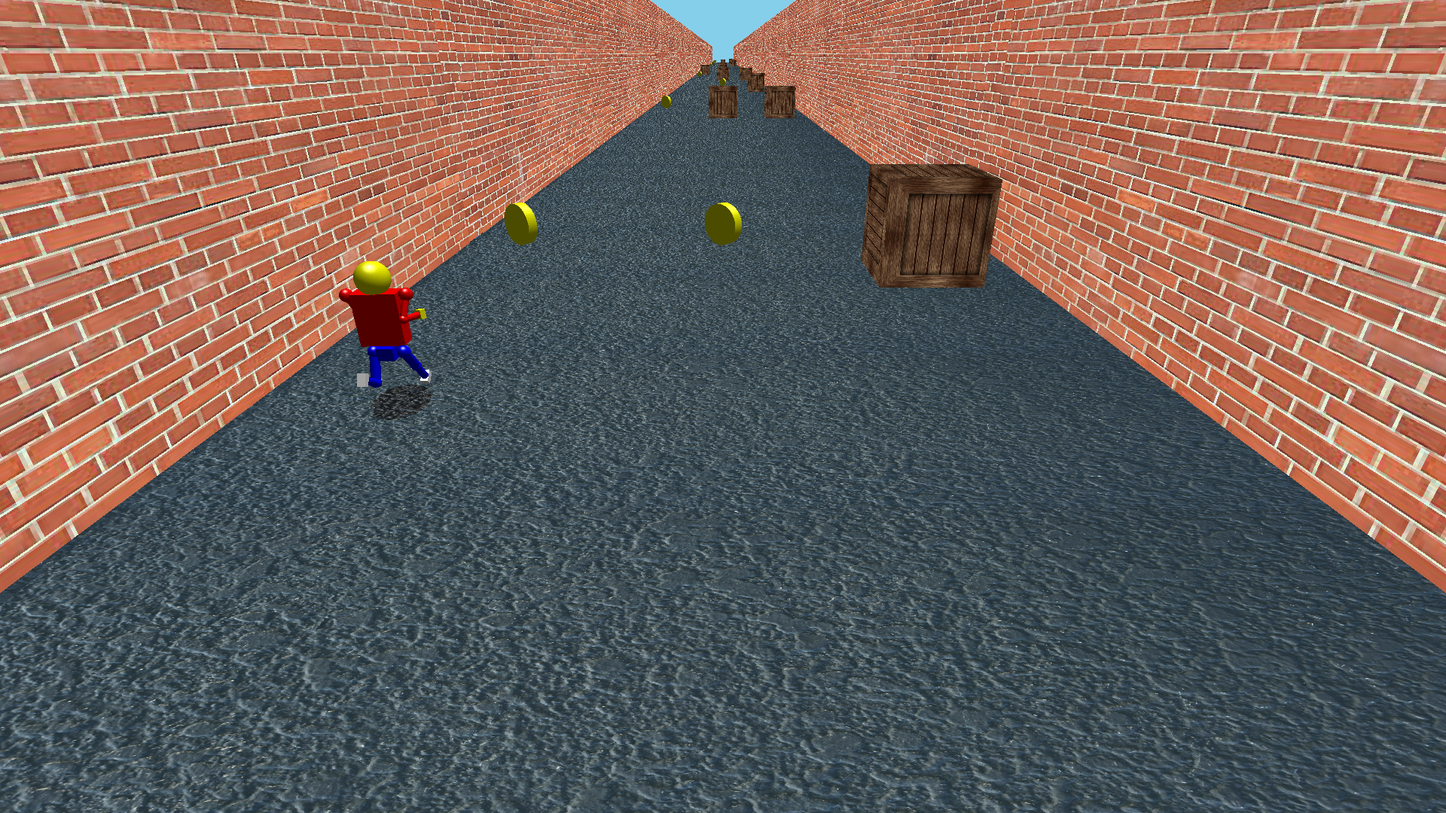
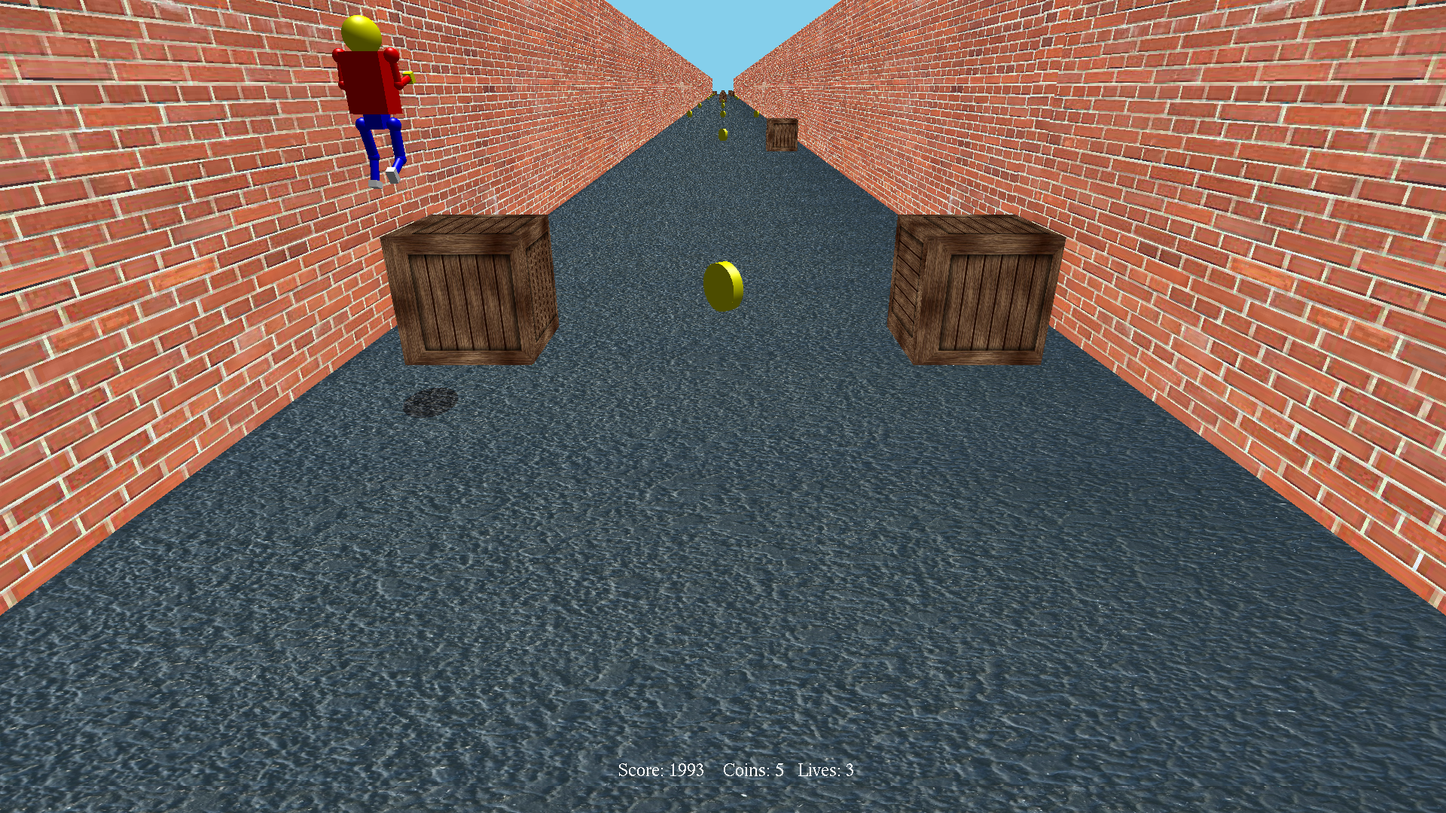
Dodat ispis teksta i zavrsen projekat

diff --git a/src/movement.c b/src/movement.c
@@ -51,8 +51,8 @@ void update_movement(){
           movement+=0.1*speed;
           runner.xpos += 0.1*speed;
           if(movement>0){
-            movement=0;
             runner.xpos -= movement;
+            movement=0;
           }
         }
         else{
@@ -65,8 +65,8 @@ void update_movement(){
           movement+=0.1*speed;
           runner.xpos+=0.1*speed;
           if(movement>10){
-            movement=10;
             runner.xpos-=(movement-10);
+            movement=10;
           }
         }
         else{
@@ -81,8 +81,8 @@ void update_movement(){
           movement-=0.1*speed;
           runner.xpos-=0.1*speed;
           if(movement<-10){
-            movement=-10;
             runner.xpos+=-(movement+10);
+            movement=-10;
           }
         }
         else{
@@ -95,8 +95,8 @@ void update_movement(){
           movement-=0.1*speed;
           runner.xpos-=0.1*speed;
           if(movement<0){
-            movement=0;
             runner.xpos+=-movement;
+            movement=0;
           }
         }
         else{
@@ -295,13 +295,13 @@ void check_collisions(){
         if(obstacles[i].ypos != -1){
             if(abs(runner.xpos-obstacles[i].xpos)<runner.x/2 + obstacles[i].x/2){
                 if(abs(runner.ypos-obstacles[i].ypos)<runner.y/2+obstacles[i].y/2){
-                    if(abs(runner.zpos-obstacles[i].zpos)<runner.z/2+obstacles[i].z/2){
-                        //invulnerable=1;
+                    //Ako u sledecem frejmu trkac bude iza prednje strane prepreke a trenutno je ispred, obradjuje se sudar.
+                    if(runner.zpos > (obstacles[i].zpos+obstacles[i].z/2) && (runner.zpos < obstacles[i].zpos+obstacles[i].z/2+param)){
                         num_lives-=1;
                         obstacles[i].ypos=-1;
                         obstacles[i].zpos= -(BR-1)*size_floor+size_floor/3;
                         param/=2;
-                        speed/=3/2;
+                        speed/=1.5;
                         shake = 5;
                         return;
                     } //cetvrti if
@@ -316,7 +316,8 @@ void check_collisions(){
         if(coins[i].ypos != -1){
             if(abs(runner.xpos-coins[i].xpos)<runner.x/2 + coins[i].r/2){
                 if(abs(runner.ypos-coins[i].ypos)<runner.y/2+coins[i].r/2){
-                    if(abs(runner.zpos-coins[i].zpos)<runner.z/2+coins[i].r/2){
+                    //Ako u sledecem frejmu trkac bude iza novcica a trenutno je ispred, kupi ga.
+                    if(runner.zpos > coins[i].zpos && (runner.zpos < coins[i].zpos+param)){
                         num_coins+=1;
                         coins[i].ypos=-1;
                         coins[i].zpos= -(BR-1)*size_floor+size_floor/3;

diff --git a/src/main.c b/src/main.c
@@ -18,7 +18,7 @@ int main(int argc, char** argv){
     glutInitDisplayMode(GLUT_RGB | GLUT_DEPTH | GLUT_DOUBLE);
 
     //Kreira se prozor.
-    glutInitWindowSize(500, 500);
+    glutInitWindowSize(600, 600);
     glutInitWindowPosition(100,100);
     glutCreateWindow(argv[0]);
 
@@ -148,11 +148,14 @@ static void on_timer(int id){
    coin_rotation+=1.5;
 
    //U zavisnosti od parametra animacije se ubrzava animacija.
-   if((int)animation_parameter%300 == 0 && animation_parameter<(int)animation_parameter+0.2 && param < 16){
+   if((int)animation_parameter%400 == 0 && animation_parameter<(int)animation_parameter+0.2 && param < 12){
          param*=2;
          speed*=1.5;
     }
 
+    //Provera sudara. (I pre i posle pomeranja novcica se vrsi provera sudara zato sto moze da se desi da u trenutku
+    //prolaska kroz novcic dodje do ubrzanja animacije i trkac protrci kroz novcic i ne pokupi ga).
+    check_collisions();
 
     //Funkcije koje vrse promenu parametara animacije.
     update_obstacle();
@@ -165,15 +168,19 @@ static void on_timer(int id){
     //Provera sudara.
     check_collisions();
 
+
+    //Dekremetira se parametar drmusanja
     if(shake!=0){
         shake-=1;
     }
 
+    //Ako je skupljeno 20 novica igrac dobija 1 zivot
     if(num_coins==20){
         num_coins=0;
         num_lives+=1;
     }
 
+    //Ako igrac padne na 0 zivota gubi igru
     if(num_lives==0){
         game_over=1;
         animation_ongoing=0;
@@ -336,7 +343,7 @@ void initialize(){
 
   //Inicijalizuje se pozicija trkaca i dimenzije kvadra koji ga obuhvata.
   runner.xpos = 0;
-  runner.ypos = 2.35;
+  runner.ypos = 2.3;
   runner.zpos = 0;
 
   runner.x = 2.35;
@@ -390,7 +397,7 @@ static void on_display(void){
     //draw_cube(runner.xpos,runner.ypos,runner.zpos,runner.x,runner.y,runner.z);
 
     //Crtanje robota.
-    draw_robo();
+    draw_runner();
 
     //Crtanje puta.
     draw_road();
@@ -400,6 +407,9 @@ static void on_display(void){
 
     //Crtanje novcica
     draw_coins();
+
+    //Ispis teksta.
+    display_text();
 
     glutSwapBuffers();
 }

diff --git a/src/drawing.c b/src/drawing.c
@@ -14,7 +14,7 @@ void draw_cube(float xpos, float ypos, float zpos, float a, float b, float c){
 }
 
 //Funkcija koja crta trkaca.
-void draw_robo(void){
+void draw_runner(void){
   GLUquadricObj *quad;
   quad = gluNewQuadric();
   glPushMatrix();
@@ -119,7 +119,7 @@ void draw_robo(void){
     glPushMatrix();
     glColor4f(0,0,1,1);
     glPushMatrix();
-            glTranslatef(0, -1.1, 0);
+            glTranslatef(0, -1, 0);
             glScalef(0.5, 0.4, 0.6);
             glutSolidCube(1);
     glPopMatrix();
@@ -206,7 +206,7 @@ void draw_robo(void){
 }
 
 //Funkcija koja crta prepreke
-void draw_obstacles(){
+void draw_obstacles(void){
     int i;
     for(i=0;i<MAX_OBSTACLES;i++){
         if(obstacles[i].ypos!=-1){
@@ -522,4 +522,21 @@ void draw_coins(void){
 
 
 
+}
+
+
+void display_text(void){
+    glPopMatrix();
+    glDisable(GL_LIGHTING);
+    glColor4f(1,1,1,1);
+    if(game_over){
+        sprintf(text, "GAME OVER    (Press r/R to restart.)\nScore: %d", (int)animation_parameter);
+    }
+    else{
+        sprintf(text, "Score: %d    Coins: %d   Lives: %d", (int)animation_parameter, num_coins, num_lives);
+    }
+    glRasterPos3f(-1.5,1,15);
+    glutBitmapString(GLUT_BITMAP_TIMES_ROMAN_24,text);
+    glEnable(GL_LIGHTING);
+    glPushMatrix();
 }

diff --git a/src/main.h b/src/main.h
@@ -11,7 +11,7 @@
 
 #define TIMER_ID 0
 #define BR 5
-#define TIMER_INTERVAL 20
+#define TIMER_INTERVAL 10
 #define PI 3.1415926535
 #define MAX_OBSTACLES (7*BR)
 #define MAX_COINS (7*BR)
@@ -21,9 +21,10 @@
 #define FILENAME1 "concrete.bmp"
 #define FILENAME2 "wall.bmp"
 
-//Deklaracija funkcije za inicijalizaciju.
+//Deklaracija funkcije za inicijalizaciju parametara.
 void initialize();
 
+//Deklaracija funkcije za postavljanje osvetljenja i inicijalizaciju tekstura
 void textures_and_lighting();
 
 
@@ -63,7 +64,11 @@ typedef struct{
 }Coin;
 
 
+
 //Promenljive
+
+//Niska koja sadrzi tekst koji se ispisuje na ekran.
+char text[1000];
 
 //Parametar tresanja ekrana.
 int shake;

diff --git a/src/drawing.h b/src/drawing.h
@@ -2,14 +2,16 @@
 #define DRAWING_H
 
 //Deklaracije funkcija koje iscrtavaju objekte na sceni.
-void draw_robo();
+void draw_runner();
 void draw_road();
 void draw_cube(float xpos, float ypos, float zpos, float a, float b, float c);
 void draw_obstacles();
 void draw_coins();
 
-//Deklaracija funkice koja inicijalizuje prepreke;
+//Deklaracija funkice koja inicijalizuje prepreke.
 void add_obstacles_and_coins();
 
+//Deklaracija funkcije koja ispisuje tekst na ekranu.
+void display_text();
 
 #endif
